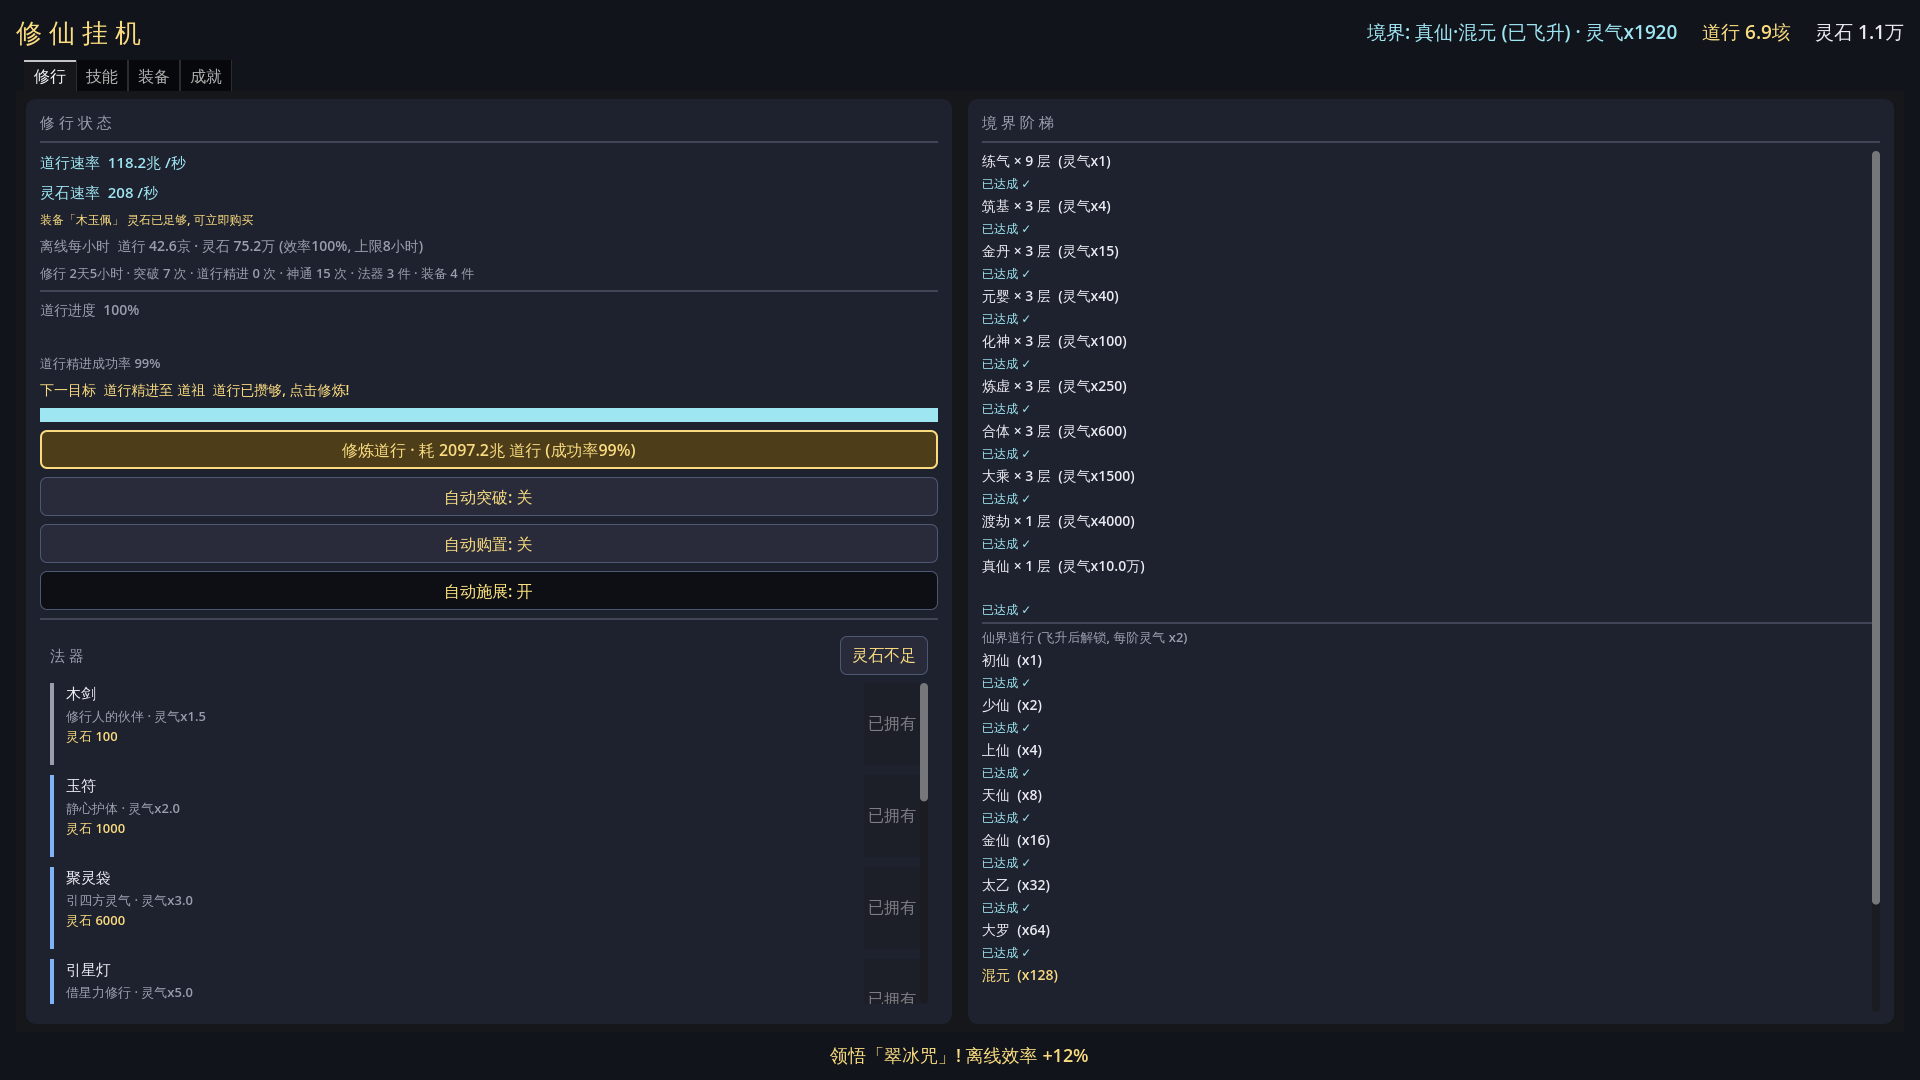
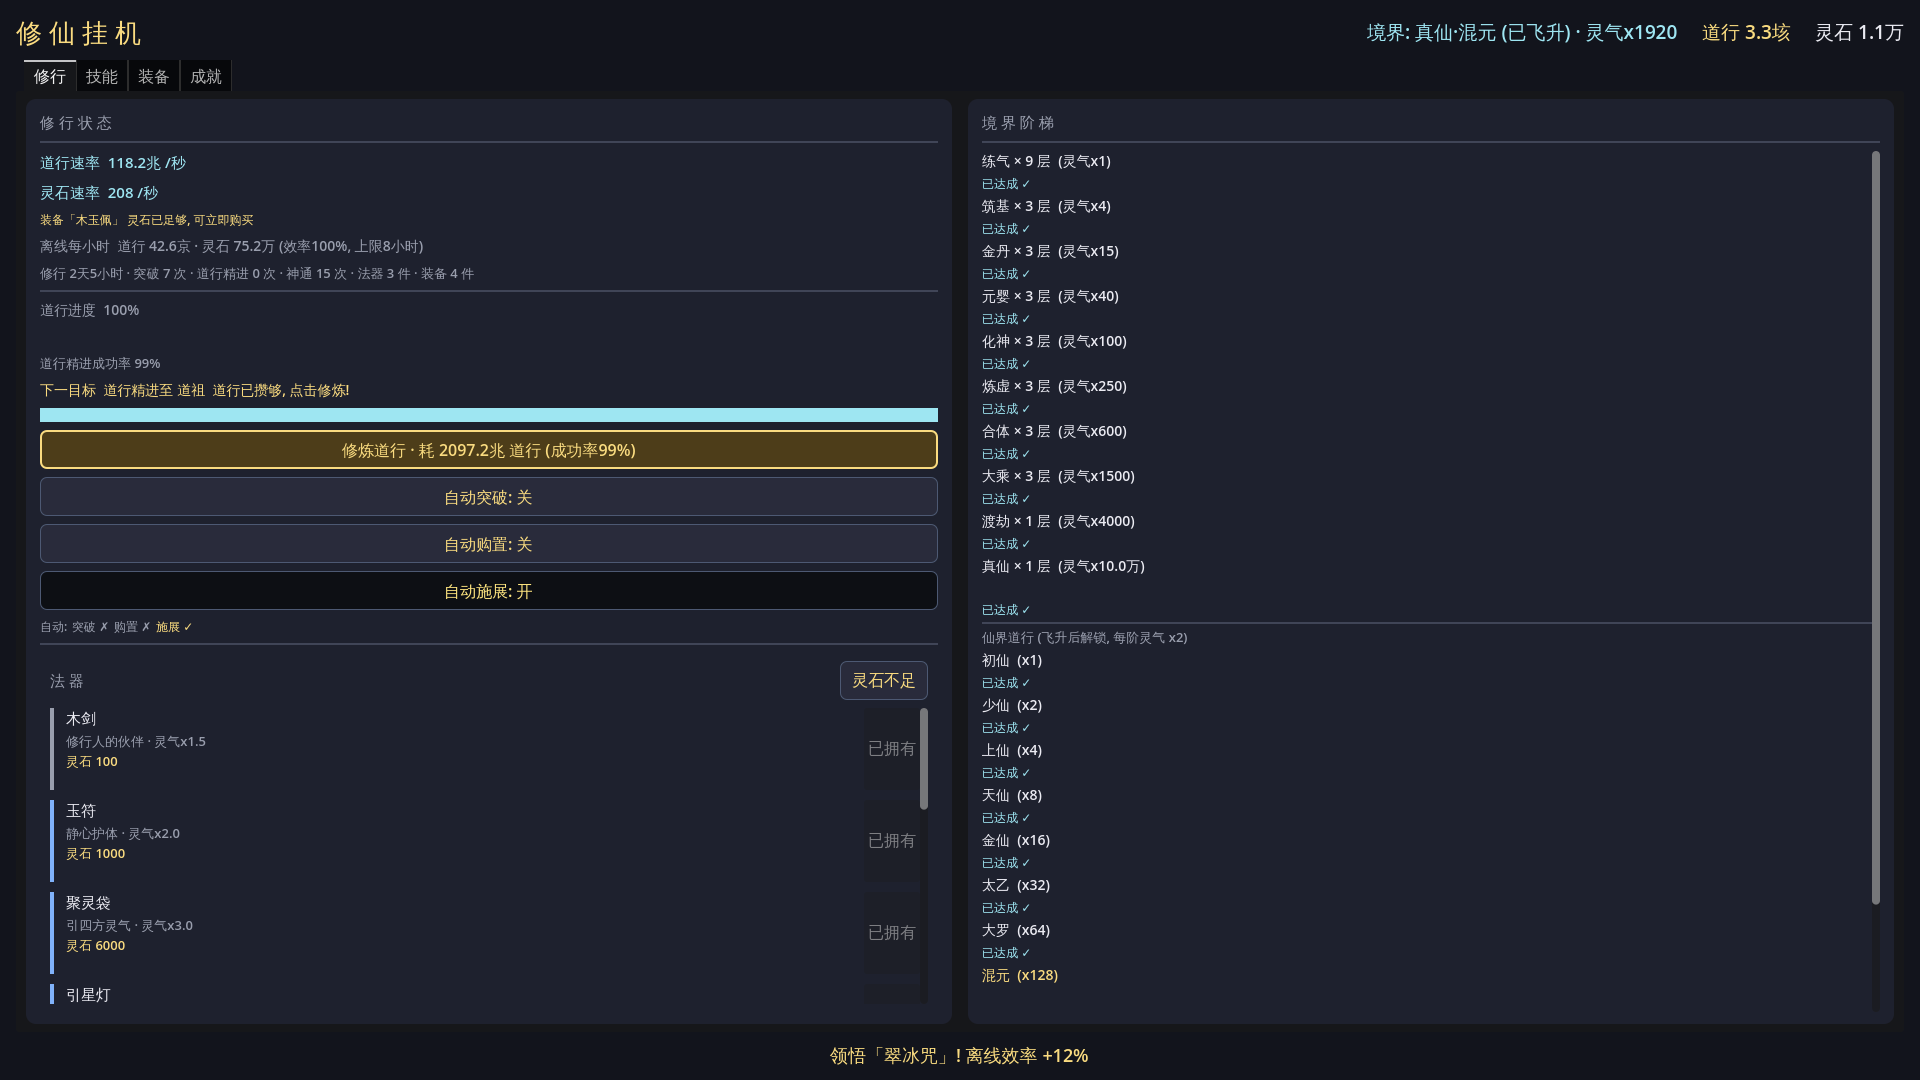
feat(打磨-70): 自动系列状态汇总提示 — 三个自动开关(突破/购置/施展)开启后玩家扫视不知哪些已生效; 修行页自动施展开关下加一行状态摘要"自动: 突破 ✓/✗ · 购置 ✓/✗ · 施展 ✓/✗" (开启金/未开灰, 各段独立着色, tooltip 说明三开关口径+离线不触发), 状态键 auto_summary_key "1|0|1" 变化才刷, 纯展示无存档/统计副作用; GameData.auto_summary_key()/auto_summary_text() 只读接口, main.gd _auto_sum_box/_apply_auto_summary + _refr

Changed region(s): [[0.0312, 0.55, 0.0938, 0.9472], [0.4375, 0.5806, 0.5, 0.6722], [0.4375, 0.6722, 0.4688, 0.7028]]

diff --git a/README.md b/README.md
@@ -4,7 +4,7 @@
 
 ## 玩法
 
-挂机自动积累 **灵气** 与 **灵石**，灵气攒够后点击突破境界（有成功率）；开启 **自动突破** 后攒够即自动突破/精进（打磨-67），开启 **自动购置** 后灵石攒够即自动购买法器/装备并最佳换装（打磨-68），开启 **自动施展** 后主动神通冷却完毕即自动爆发（打磨-69），挂机全程无需手动点击。
+挂机自动积累 **灵气** 与 **灵石**，灵气攒够后点击突破境界（有成功率）；开启 **自动突破** 后攒够即自动突破/精进（打磨-67），开启 **自动购置** 后灵石攒够即自动购买法器/装备并最佳换装（打磨-68），开启 **自动施展** 后主动神通冷却完毕即自动爆发（打磨-69），修行页底部一行 **自动系列状态汇总**（✓=开/✗=关，打磨-70），挂机全程无需手动点击。
 
 - **境界体系**：练气 → 筑基 → 金丹 → 元婴 → 化神 → 炼虚 → 合体 → 大乘 → 渡劫 → 真仙（飞升），境界越高挂机越快（顶栏显示当前境界灵气倍率，悬停查看构成）
 - **飞升后道行**（打磨-10）：飞升真仙界后挂机积累 **道行**，可精进 9 个阶段（初仙→道祖），每阶灵气速率 x2，给满级玩家长线挂机目标
@@ -57,9 +57,9 @@ PROJECT_PLAN.md          # 项目计划
 
 ```bash
 ~/bin/godot --headless --path .            # 无头冒烟 (应无报错, 会一直挂机运行)
-~/bin/godot --headless --path . -s res://scripts/selftest.gd   # 全流程自测 (学习/购买/穿戴/冷却/存读档/倍率/数值曲线/成就/飞升后道行/装备/技能浮动灵气速率增量/神通爆发预览/一键神通/神通冷却完毕就绪事件/神通冷却进度比例/突破成功率tooltip预期成本/突破失败浮动预期成本/突破成功浮动新境界成功率/离线收益启动金色浮动/自动突破/自动购置/自动施展, 835 项, 退出码 0=通过)
+~/bin/godot --headless --path . -s res://scripts/selftest.gd   # 全流程自测 (学习/购买/穿戴/冷却/存读档/倍率/数值曲线/成就/飞升后道行/装备/技能浮动灵气速率增量/神通爆发预览/一键神通/神通冷却完毕就绪事件/神通冷却进度比例/突破成功率tooltip预期成本/突破失败浮动预期成本/突破成功浮动新境界成功率/离线收益启动金色浮动/自动突破/自动购置/自动施展/自动系列状态汇总, 845 项, 退出码 0=通过)
 ~/bin/godot --headless --path . -s res://scripts/stress_test.gd  # 数值曲线压力测试 (全境界/全品质梯度/解锁门槛一致性/后期溢出检查, 613 项, CI 可跑, 退出码 0=通过)
-~/bin/godot --headless --path . res://scenes/ui_test.tscn  # UI 断言 (成就进度条/收集条/品质色/一键系列/顶栏灵石可购进度/灵石行内联下一件可购/法器属性构成/装备/技能浮动灵气速率增量/神通爆发预览/单个神通施展浮动/一键神通/神通冷却完毕就绪浮动/神通冷却进度条/神通冷却完毕收口动画+按钮微光/一键施展浮动爆发总量/单个神通施展浮动爆发总量/冷却完毕就绪浮动爆发总量/突破成功率tooltip预期成本/突破失败浮动预期成本/突破成功浮动新境界成功率/离线收益启动金色浮动/自动突破/自动购置/自动施展, scene 模式带 autoload, 1474 项, 退出码 0=通过)
+~/bin/godot --headless --path . res://scenes/ui_test.tscn  # UI 断言 (成就进度条/收集条/品质色/一键系列/顶栏灵石可购进度/灵石行内联下一件可购/法器属性构成/装备/技能浮动灵气速率增量/神通爆发预览/单个神通施展浮动/一键神通/神通冷却完毕就绪浮动/神通冷却进度条/神通冷却完毕收口动画+按钮微光/一键施展浮动爆发总量/单个神通施展浮动爆发总量/冷却完毕就绪浮动爆发总量/突破成功率tooltip预期成本/突破失败浮动预期成本/突破成功浮动新境界成功率/离线收益启动金色浮动/自动突破/自动购置/自动施展/自动系列状态汇总, scene 模式带 autoload, 1492 项, 退出码 0=通过)
 ```
 
 ## 导出 (打包)
